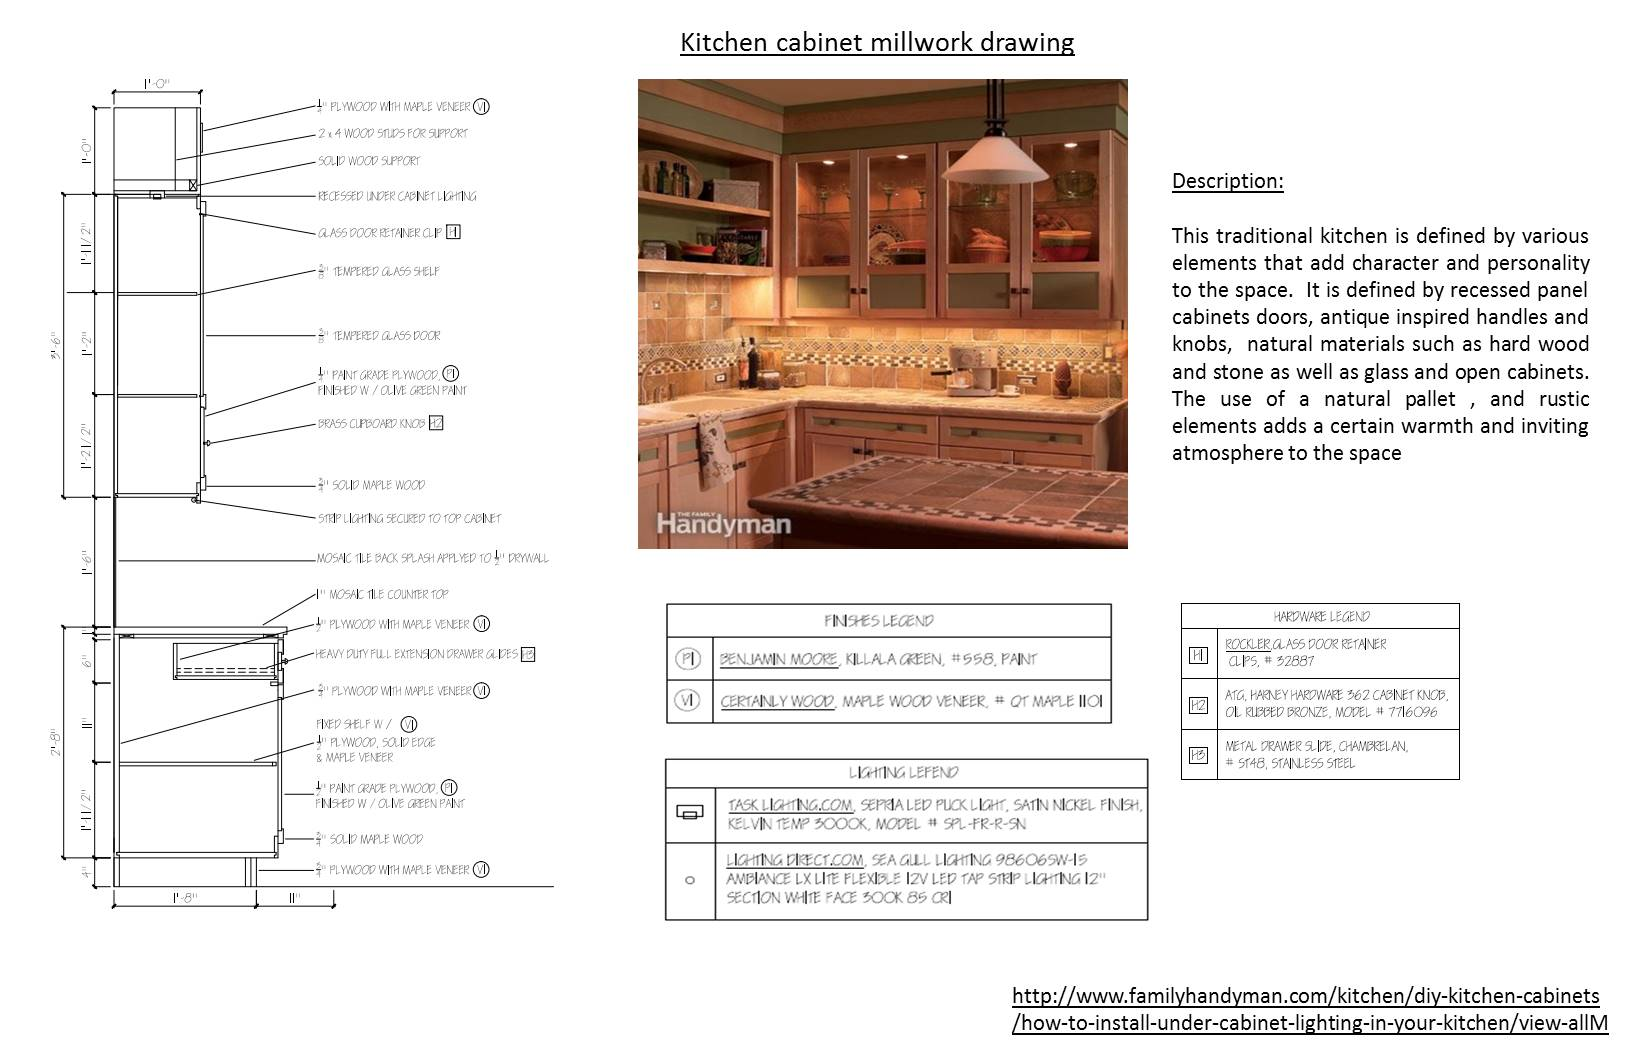
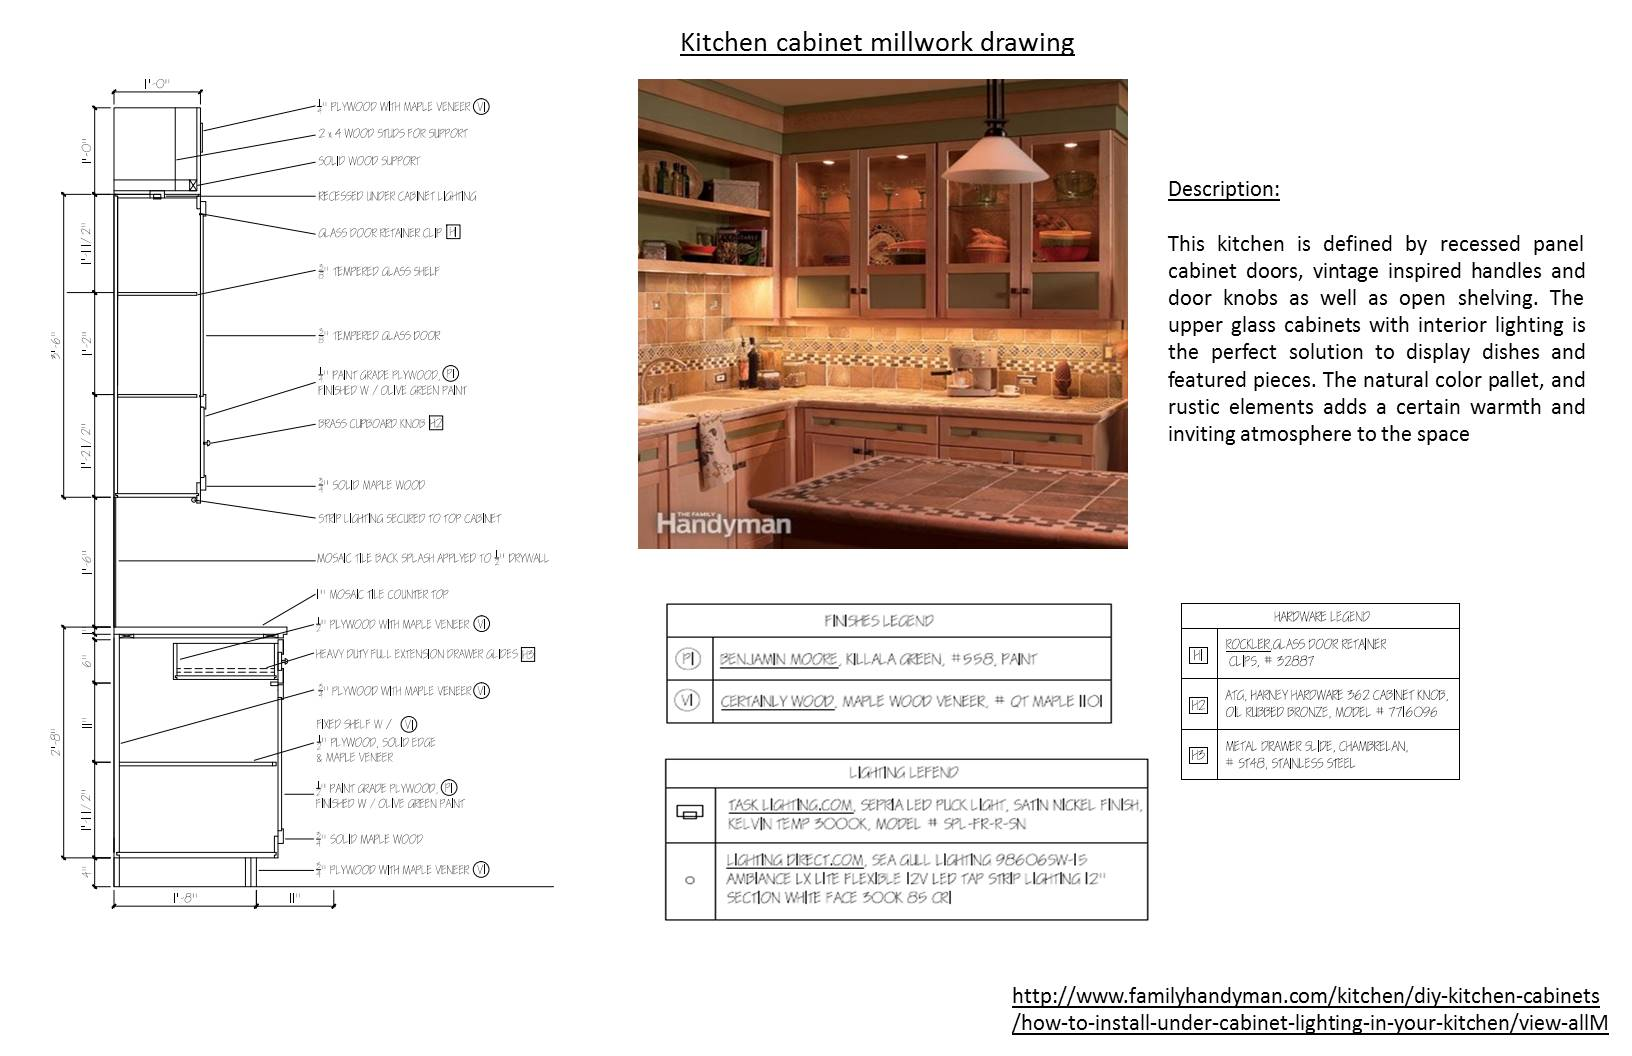
millwork fix
fixed description in kitchen millwork

Changed region(s): [[0.7188, 0.2188, 0.9688, 0.4375], [0.7188, 0.1562, 0.7812, 0.1875]]

diff --git a/chantalportfolio/Drafting.php b/chantalportfolio/Drafting.php
@@ -231,7 +231,7 @@
                         <li data-pile="Millwork">
                             <div class="project-thumb">
                                 <a class="single-image plus-icon animTop" href="images/Millwork/KitchenMillwork.jpg" rel="Millwork">
-                                    <img src="images/Millwork/KitchenMillwork%20-%20Copy.jpg" />
+                                    <img src="images/Millwork/KitchenMillworkCopy.jpg" />
                                 </a>
                                 <a href="#" class="project-meta">
                                     <h6 class="title">Kitchen</h6>
